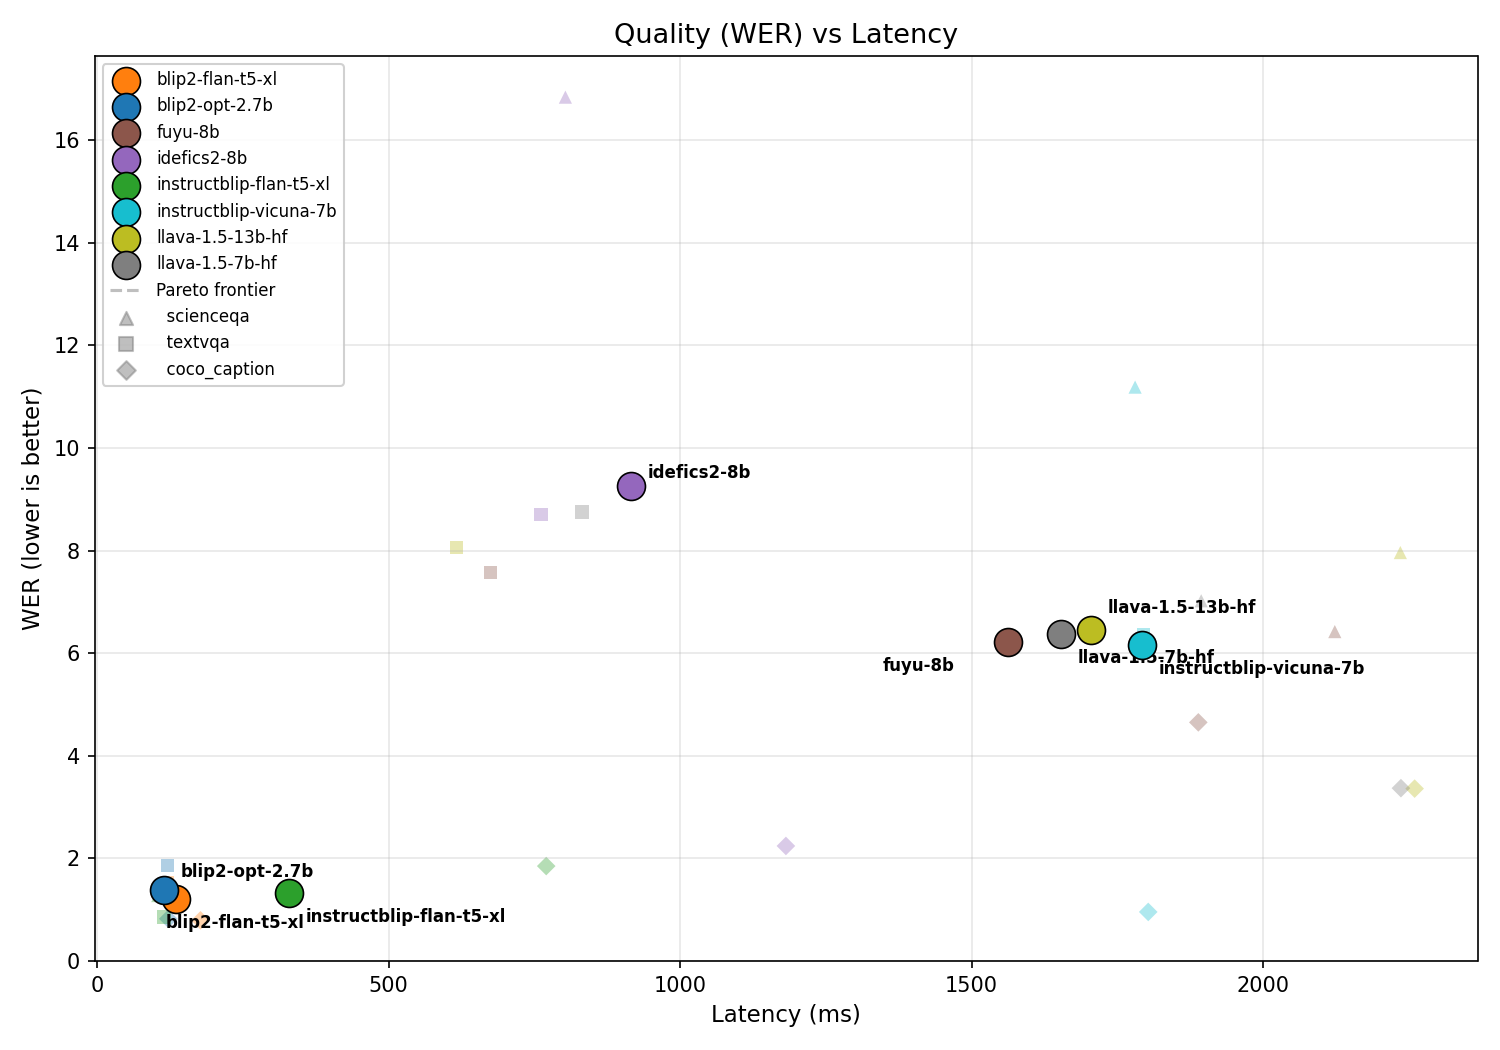
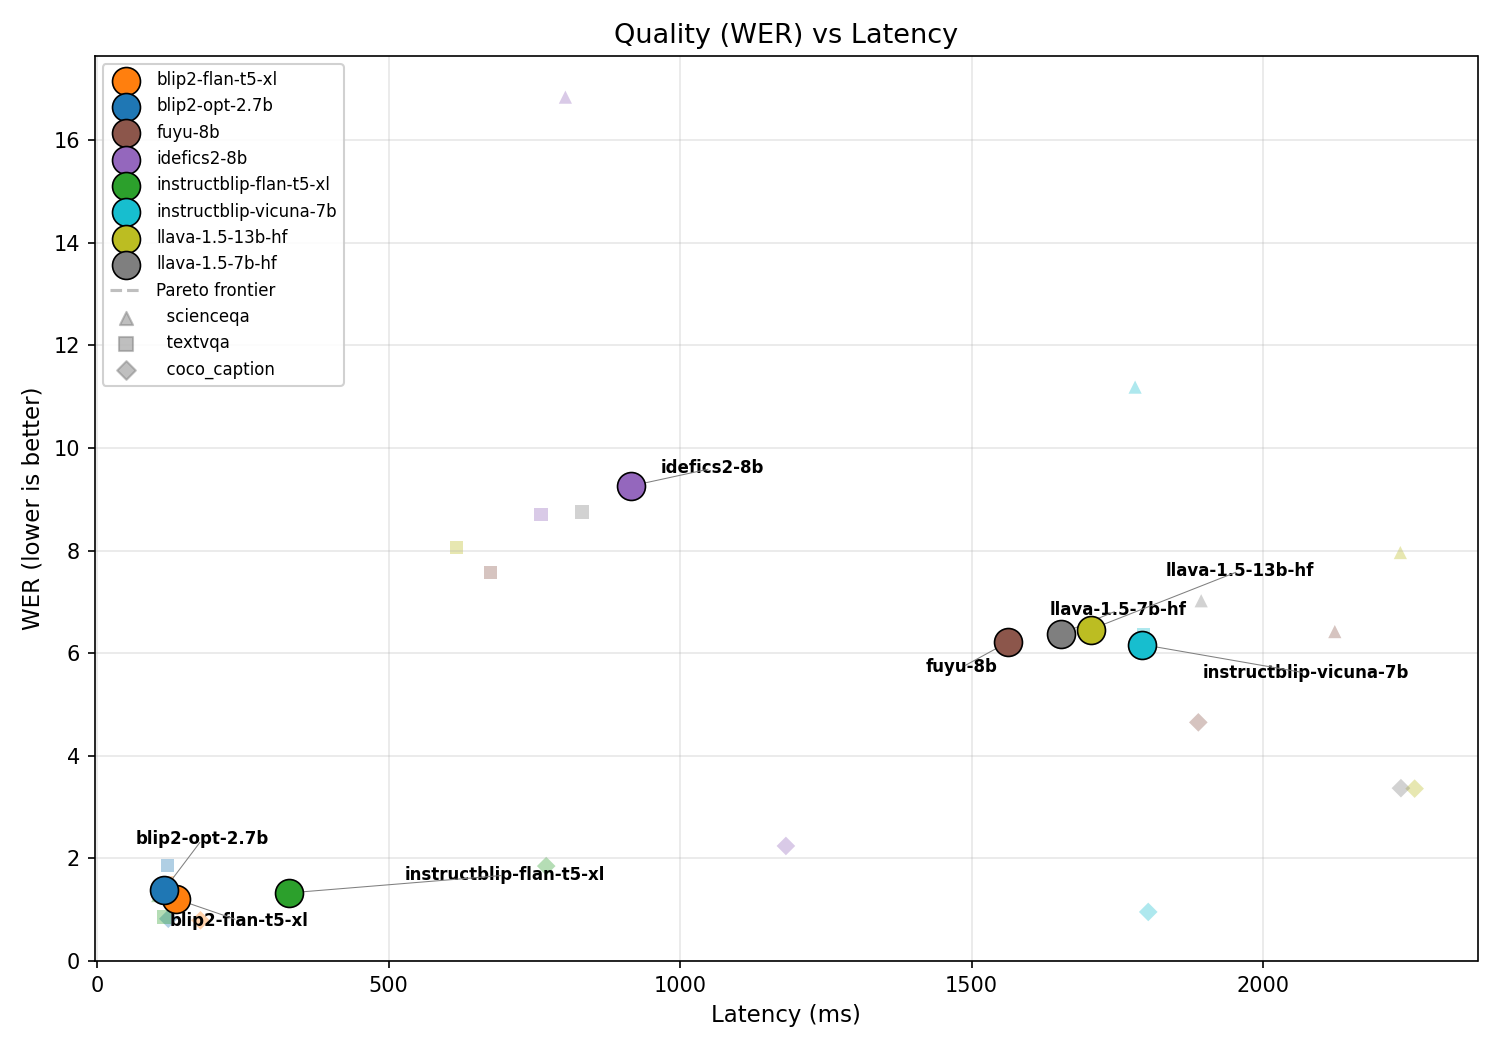
style: use adjustText for non-overlapping chart labels

diff --git a/scripts/generate_report.py b/scripts/generate_report.py
@@ -277,25 +277,21 @@ def plot_quality_vs_latency(df: pd.DataFrame, out_dir: Path):
             zorder=5, label=m,
         )
 
-    # Labels with manual offsets for readability
-    label_offsets = {
-        "blip2-flan-t5-xl": (-5, -14),
-        "blip2-opt-2.7b": (8, 6),
-        "instructblip-flan-t5-xl": (8, -14),
-        "fuyu-8b": (-60, -14),
-        "llava-1.5-7b-hf": (8, -14),
-        "llava-1.5-13b-hf": (8, 8),
-        "instructblip-vicuna-7b": (8, -14),
-    }
+    # Auto-adjust labels to avoid overlap using adjustText
+    from adjustText import adjust_text
+    texts = []
     for _, row in avg.iterrows():
-        m = row["model_short"]
-        ox, oy = label_offsets.get(m, (8, 4))
-        ax.annotate(
-            m,
-            (row["latency"], row["wer"]),
+        texts.append(ax.text(
+            row["latency"], row["wer"], row["model_short"],
             fontsize=8, fontweight="bold",
-            xytext=(ox, oy), textcoords="offset points",
-        )
+        ))
+    adjust_text(
+        texts, ax=ax,
+        arrowprops=dict(arrowstyle="-", color="gray", lw=0.5),
+        expand=(2.0, 2.0),
+        force_text=(1.5, 1.5),
+        force_points=(1.0, 1.0),
+    )
 
     # Pareto frontier (lower-left is better for both axes)
     pareto = avg.sort_values("latency")
